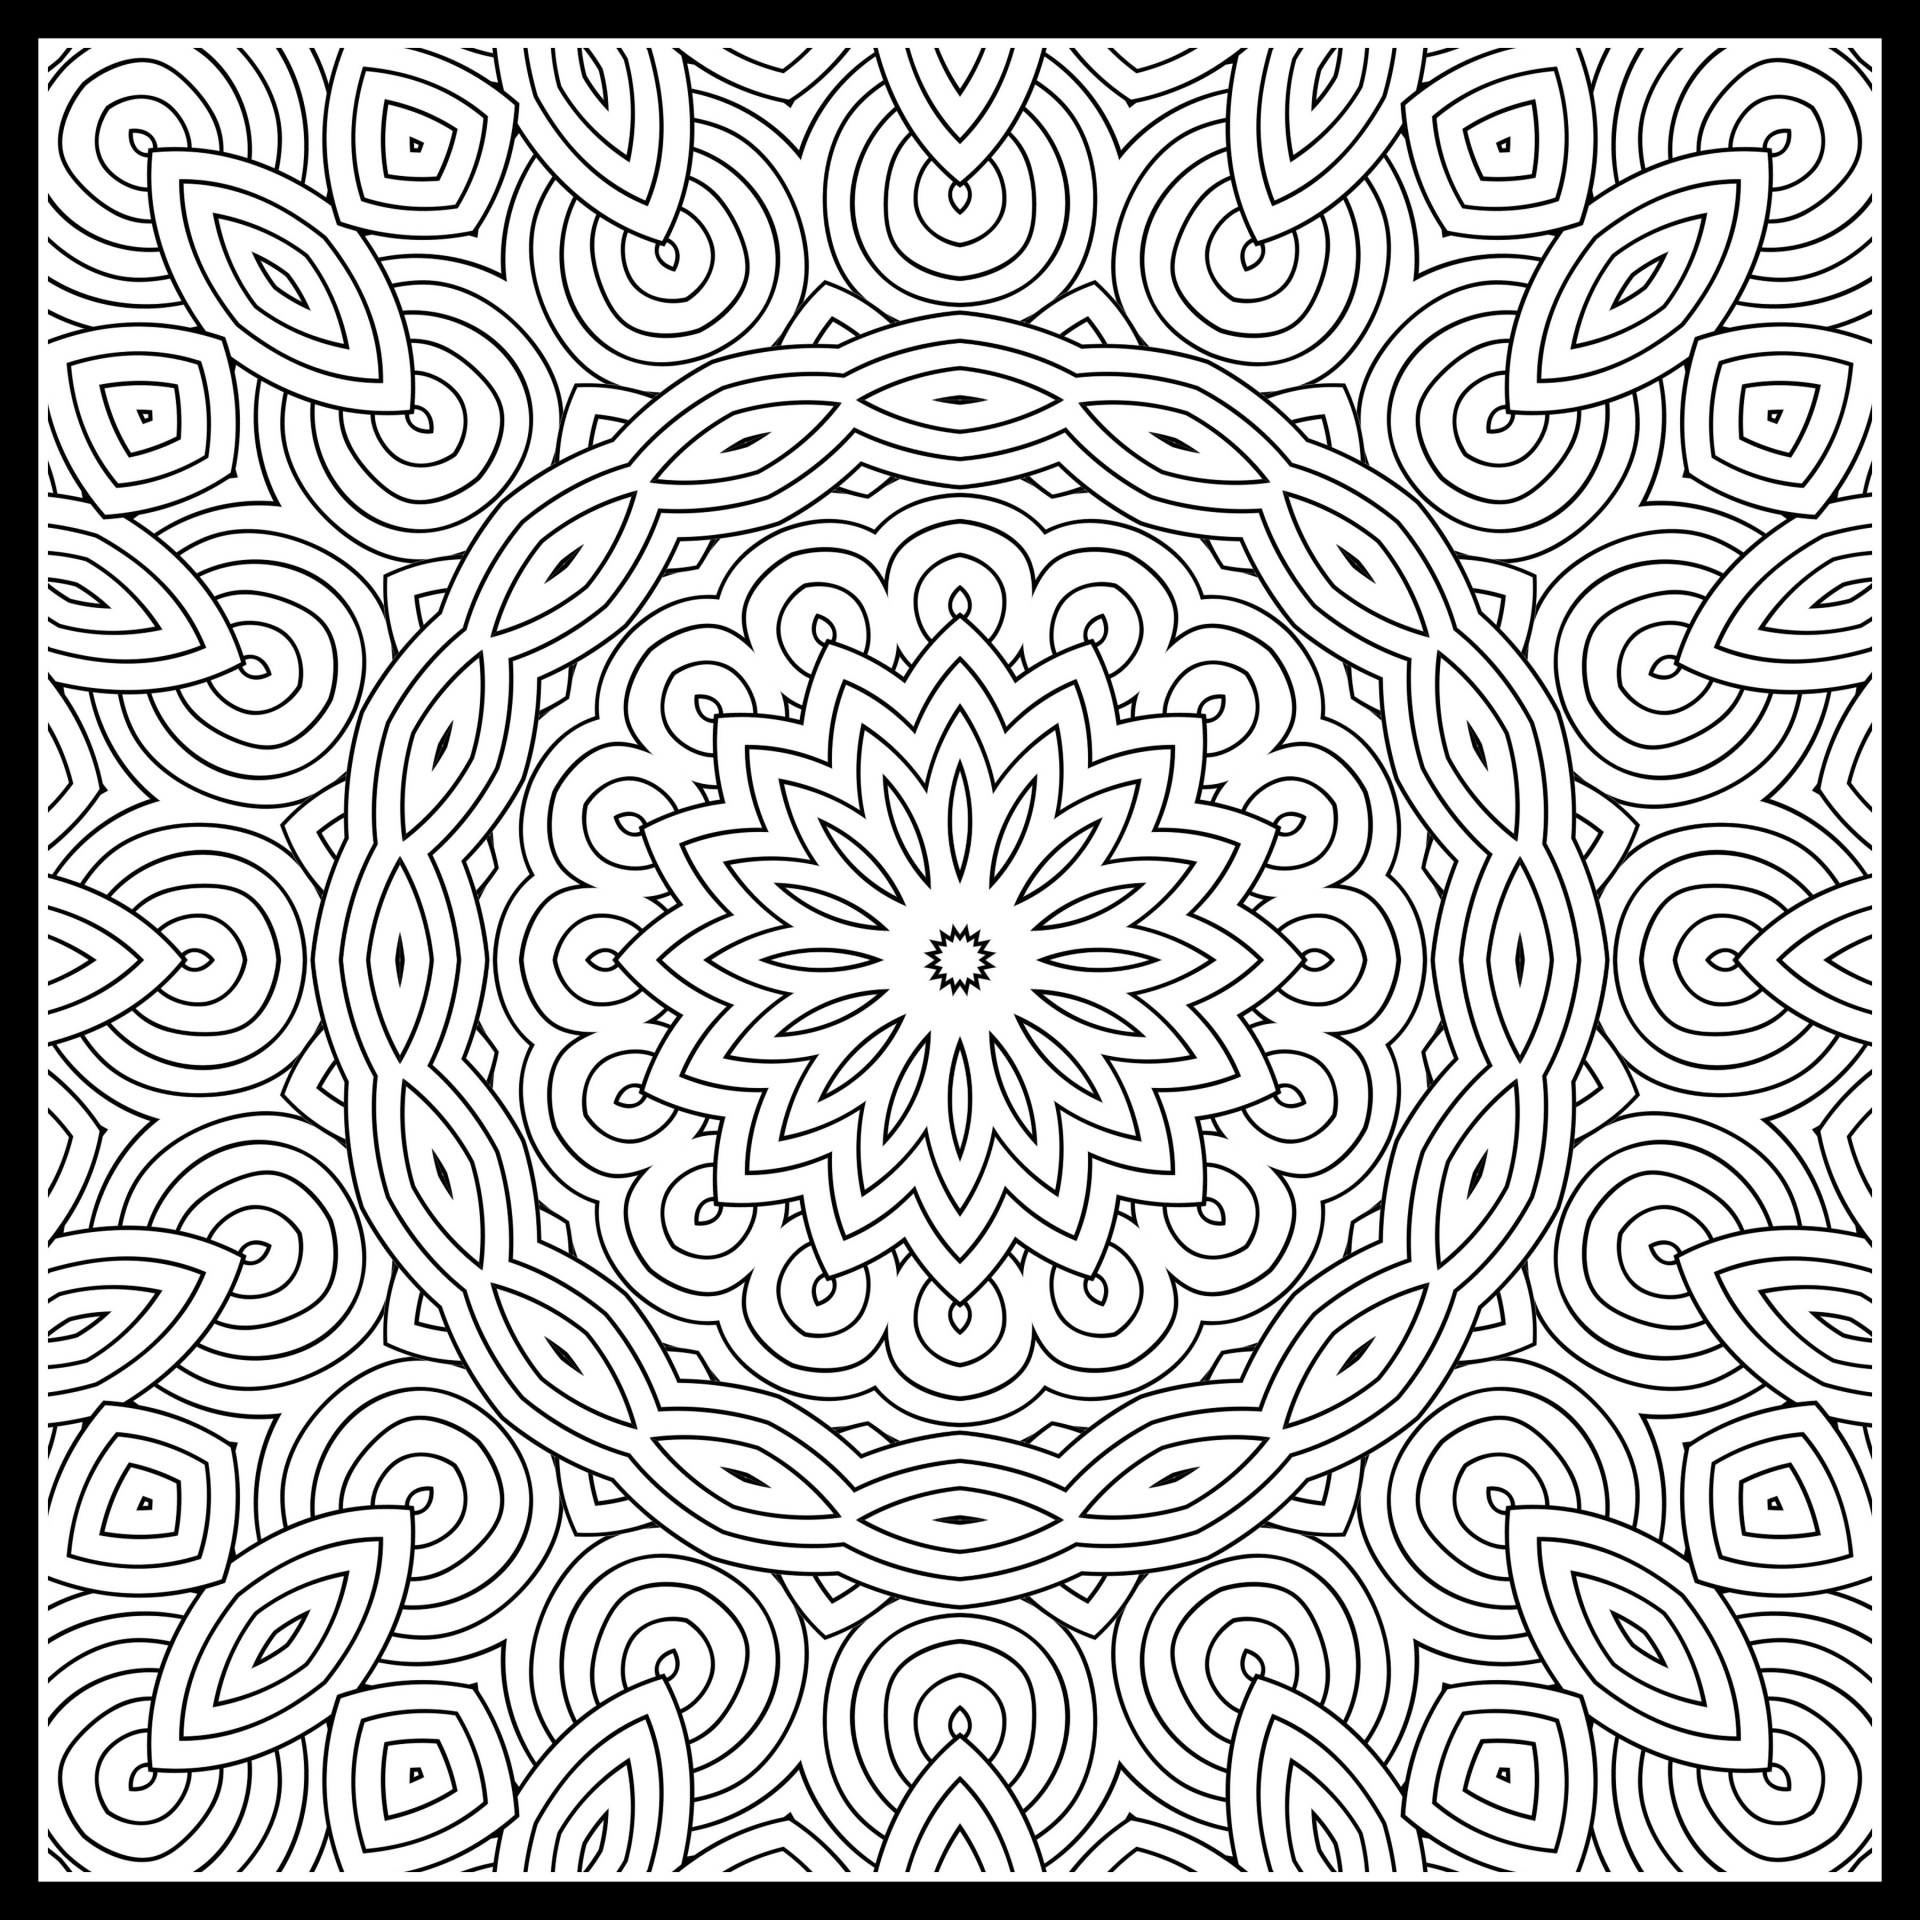
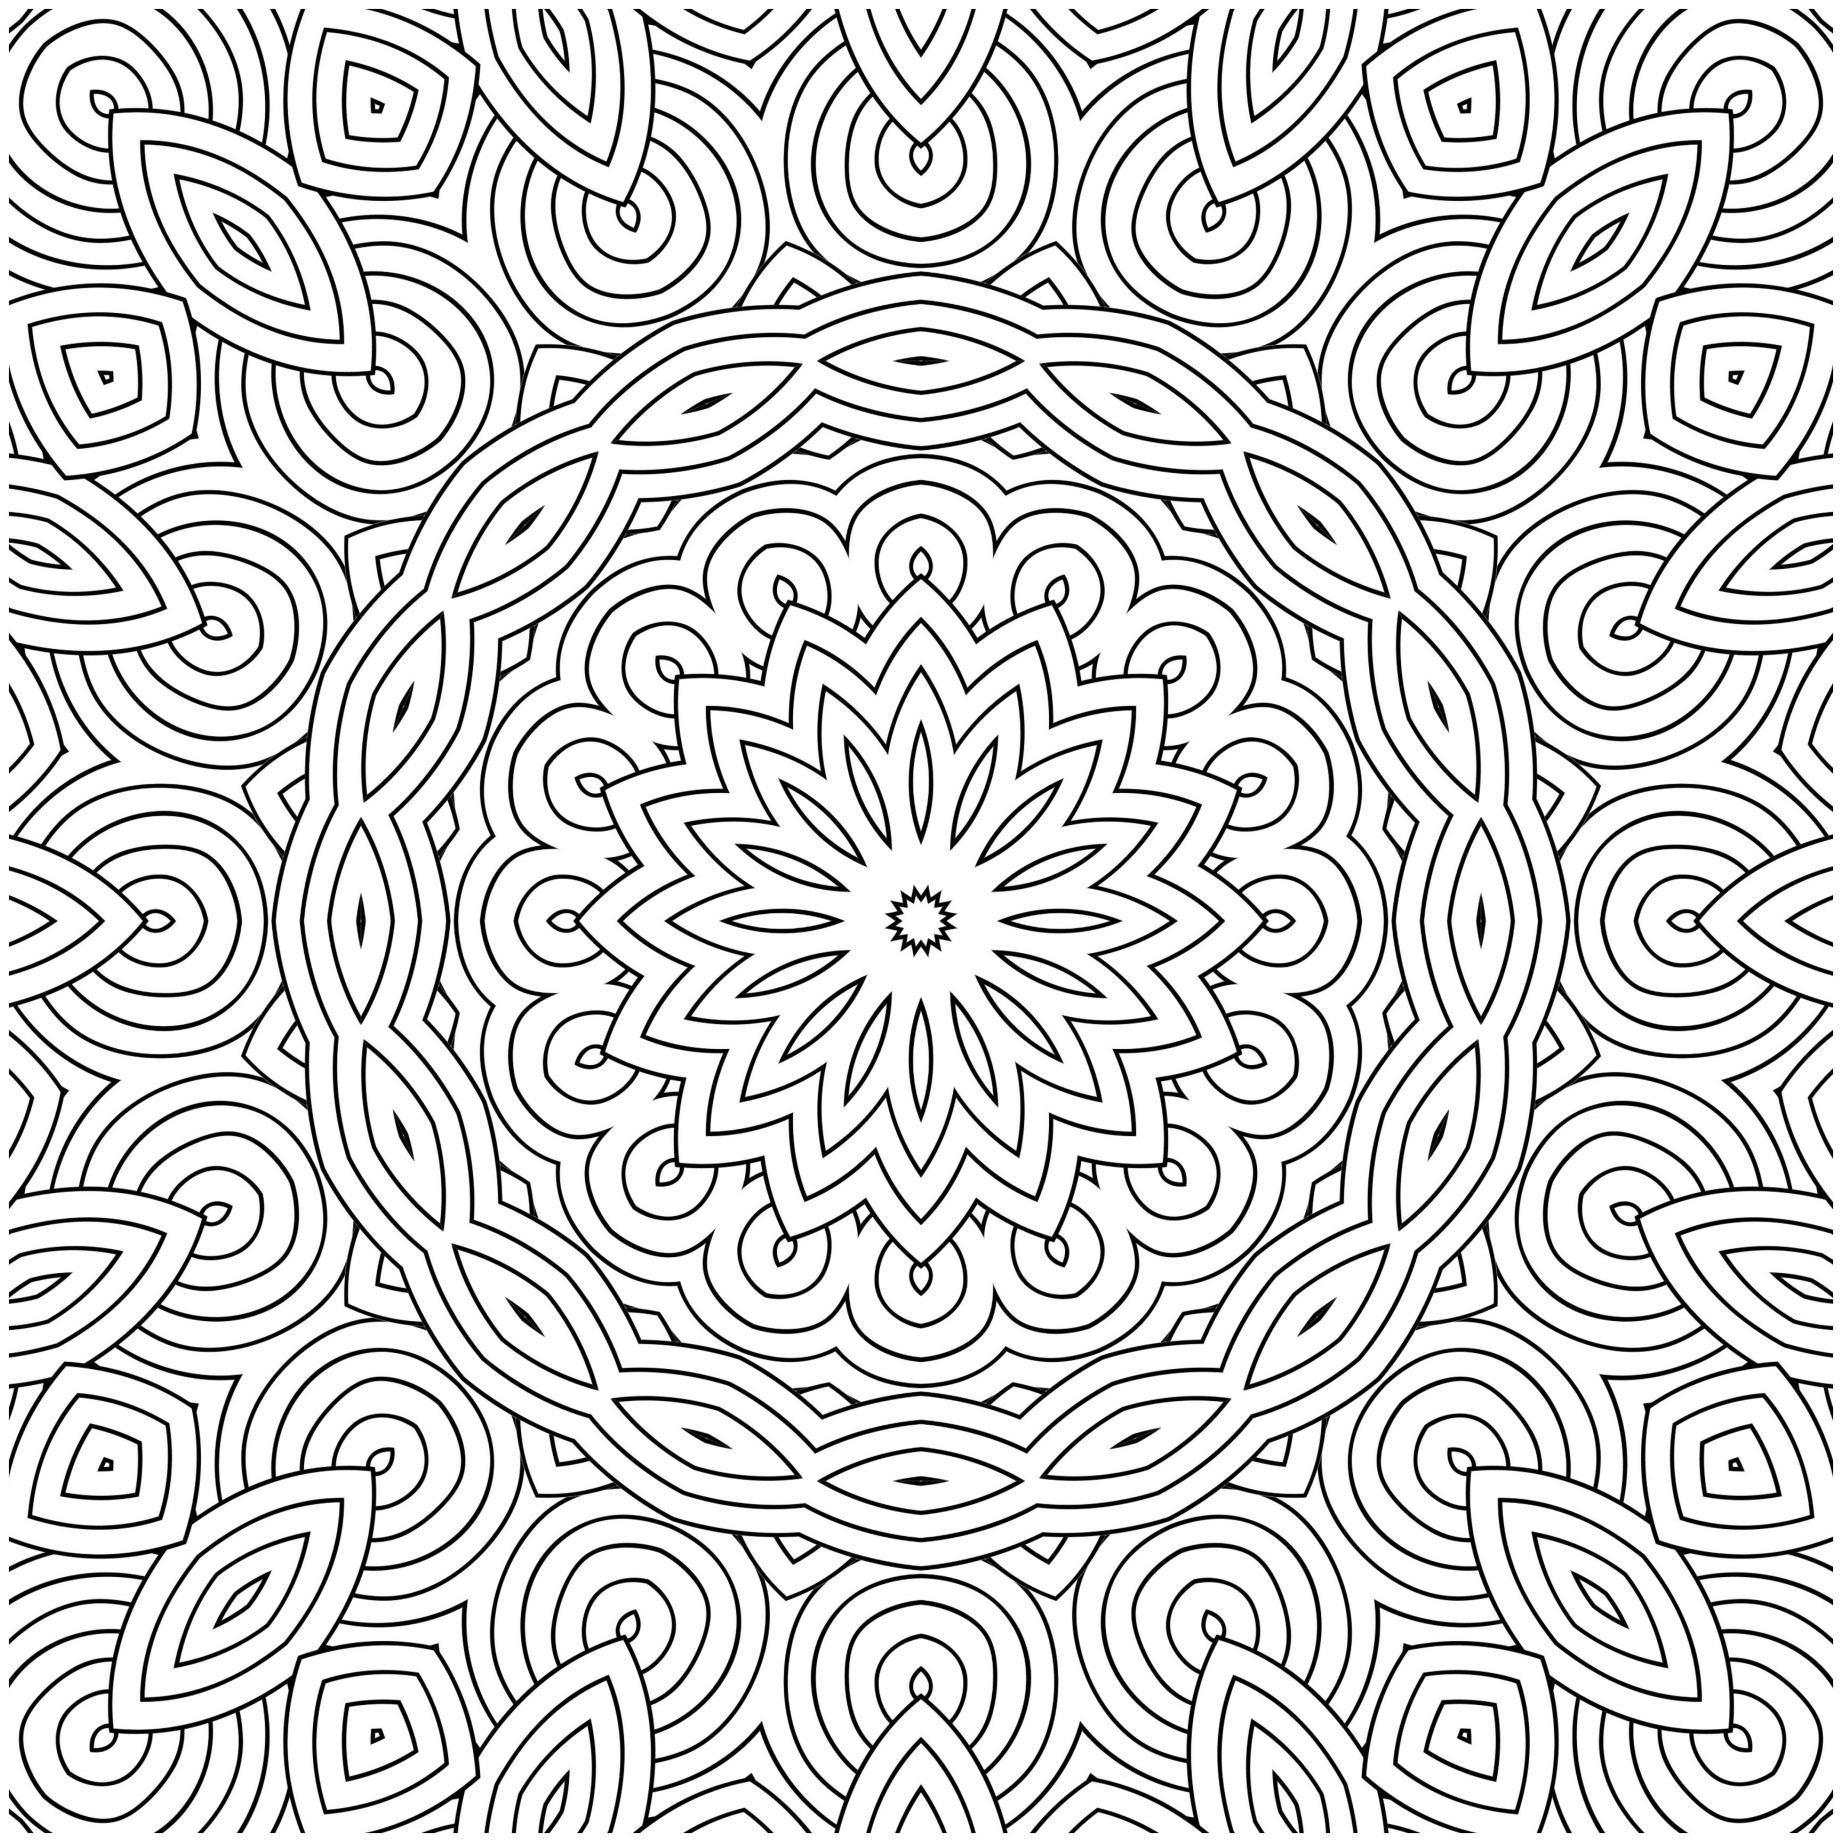
edited image and placement

diff --git a/app.js b/app.js
@@ -14,7 +14,7 @@ function setup() {
   createCanvas(windowWidth, windowHeight);
   noSmooth();
   fillColor = color(0, 255, 0);
-  image(img, 0, 0);
+  image(img, windowWidth, windowWidth);
 }
 
 function windowResized() {
